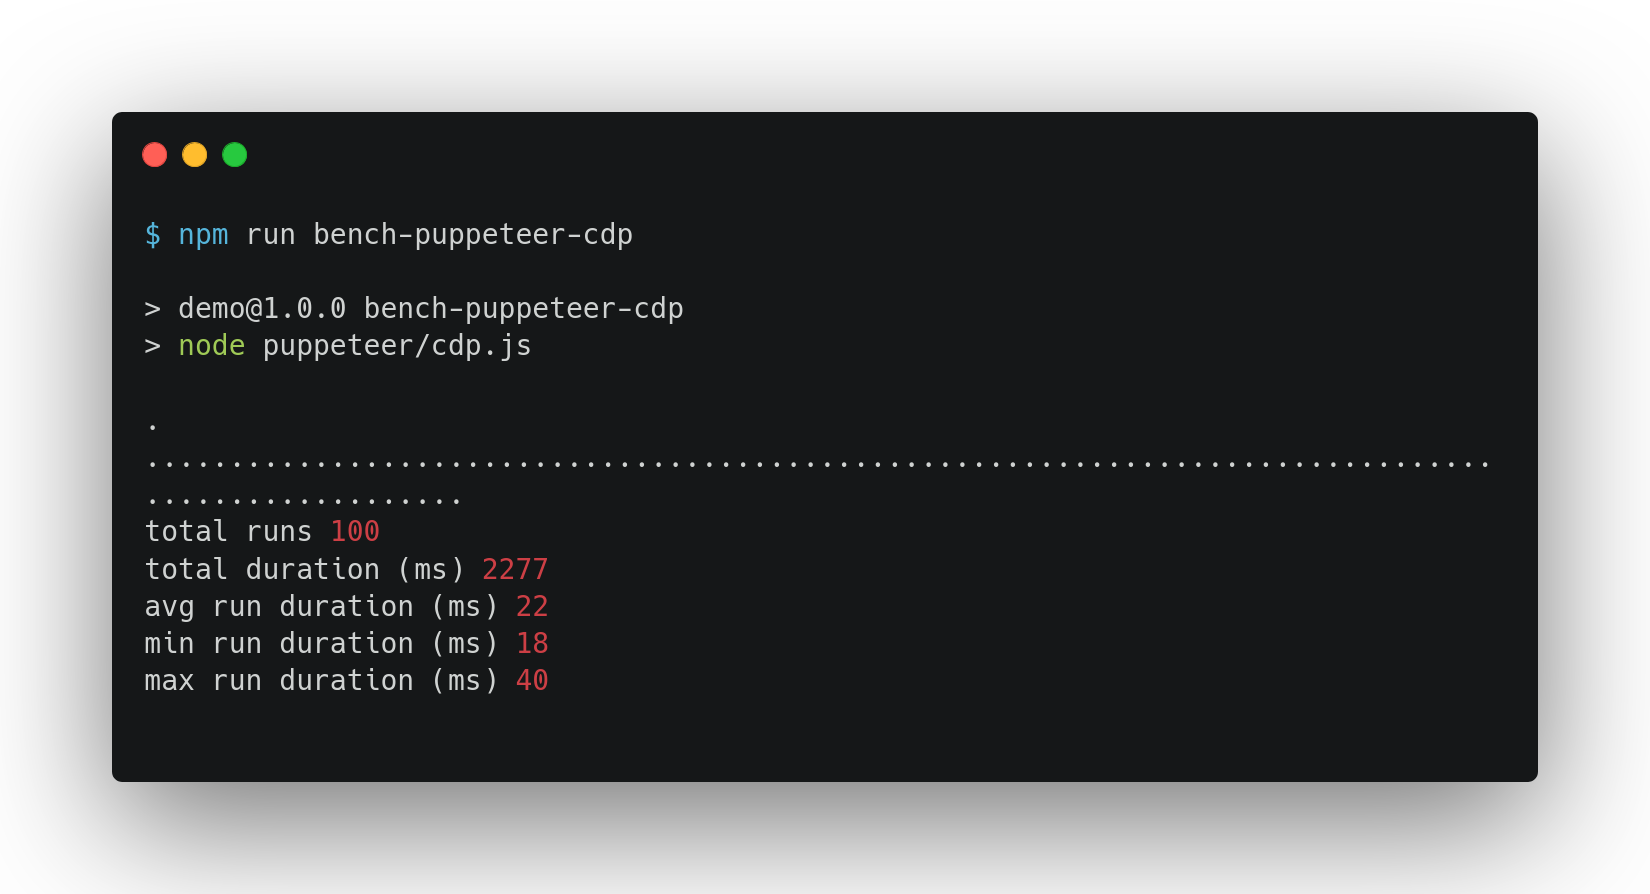
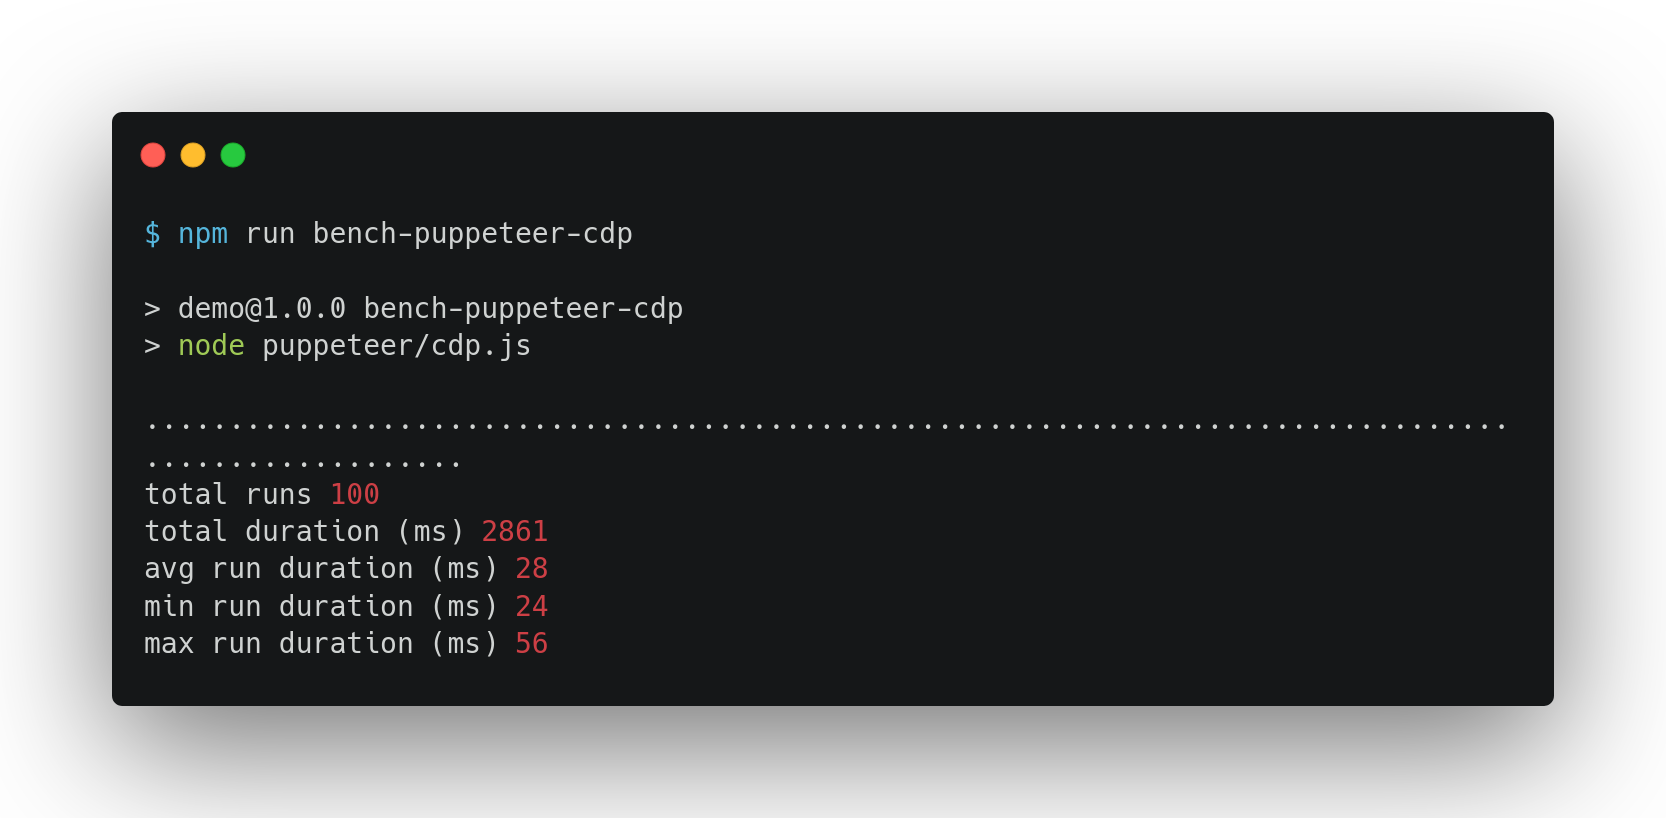
upgrade benchmark results

diff --git a/README.md b/README.md
@@ -69,26 +69,31 @@ We use Google Chrome version 130.0.6723.58.
 
 ```console
 $ google-chrome --version
-Google Chrome 130.0.6723.58
+Google Chrome 136.0.7103.113
 ```
 
-And Lightpanda commit [b846541ff69082f4d283155f0b3651ae0394a240](https://github.com/lightpanda-io/browser/commit/b846541ff69082f4d283155f0b3651ae0394a240).
+And Lightpanda commit [eed3d27](https://github.com/lightpanda-io/browser/commit/eed3d27).
+
+```console
+$ ./lightpanda version
+eed3d27
+```
 
 ### Execution time
 
 ```console
 $ hyperfine --warmup 3 --runs 20 --shell=none "google-chrome --user-data-dir=/tmp/bench_chrome --headless=new --dump-dom http://127.0.0.1:124/campfire-commerce/" "./lightpanda --dump http://127.0.0.1:1234/campfire-commerce/"
 Benchmark 1: google-chrome --user-data-dir=/tmp/bench_chrome --headless=new --dump-dom http://127.0.0.1:124/campfire-commerce/
-  Time (mean ± σ):     598.7 ms ±   8.6 ms    [User: 348.0 ms, System: 165.1 ms]
-  Range (min … max):   586.3 ms … 611.9 ms    20 runs
+  Time (mean ± σ):     589.8 ms ±   7.5 ms    [User: 353.0 ms, System: 161.5 ms]
+  Range (min … max):   575.4 ms … 604.8 ms    20 runs
 
 Benchmark 2: ./lightpanda --dump http://127.0.0.1:1234/campfire-commerce/
-  Time (mean ± σ):      19.6 ms ±   0.1 ms    [User: 6.7 ms, System: 4.1 ms]
-  Range (min … max):    19.4 ms …  19.9 ms    20 runs
+  Time (mean ± σ):      37.1 ms ±   1.2 ms    [User: 31.7 ms, System: 6.8 ms]
+  Range (min … max):    34.9 ms …  40.9 ms    20 runs
 
 Summary
   './lightpanda --dump http://127.0.0.1:1234/campfire-commerce/' ran
-   30.50 ± 0.49 times faster than 'google-chrome --user-data-dir=/tmp/bench_chrome --headless=new --dump-dom http://127.0.0.1:124/campfire-commerce/'
+   15.91 ± 0.57 times faster than 'google-chrome --user-data-dir=/tmp/bench_chrome --headless=new --dump-dom http://127.0.0.1:124/campfire-commerce/'
 ```
 
 ![aws.m5 hyperfine](./img/aws_m5_hyperfine.png)
@@ -98,48 +103,47 @@ Summary
 ```console
 $ /usr/bin/time -v google-chrome --user-data-dir=/tmp/bench_chrome --headless=new --dump-dom http://127.0.0.1:1234/campfire-commerce/
         Command being timed: "google-chrome --user-data-dir=/tmp/bench_chrome --headless=new --dump-dom http://127.0.0.1:1234/campfire-commerce/"
-        User time (seconds): 0.34
-        System time (seconds): 0.19
-        Percent of CPU this job got: 94%
-        Elapsed (wall clock) time (h:mm:ss or m:ss): 0:00.57
+        User time (seconds): 0.36
+        System time (seconds): 0.18
+        Percent of CPU this job got: 91%
+        Elapsed (wall clock) time (h:mm:ss or m:ss): 0:00.60
         Average shared text size (kbytes): 0
         Average unshared data size (kbytes): 0
         Average stack size (kbytes): 0
         Average total size (kbytes): 0
-        Maximum resident set size (kbytes): 174096
+        Maximum resident set size (kbytes): 183212
         Average resident set size (kbytes): 0
-        Major (requiring I/O) page faults: 17
-        Minor (reclaiming a frame) page faults: 20609
-        Voluntary context switches: 2563
-        Involuntary context switches: 1618
+        Major (requiring I/O) page faults: 0
+        Minor (reclaiming a frame) page faults: 21131
+        Voluntary context switches: 3066
+        Involuntary context switches: 1548
         Swaps: 0
-        File system inputs: 1048
-        File system outputs: 4576
+        File system inputs: 0
+        File system outputs: 3488
         Socket messages sent: 0
         Socket messages received: 0
         Signals delivered: 0
         Page size (bytes): 4096
         Exit status: 0
-
 ```
 
 ```console
-$ /usr/bin/time -v ./lightpanda --dump http://127.0.0.1:1234/campfire-commerce/
-        Command being timed: "./lightpanda --dump http://127.0.0.1:1234/campfire-commerce/"
-        User time (seconds): 0.00
-        System time (seconds): 0.00
-        Percent of CPU this job got: 92%
-        Elapsed (wall clock) time (h:mm:ss or m:ss): 0:00.01
+$ /usr/bin/time -v ./lightpanda fetch --dump http://127.0.0.1:1234/campfire-commerce/
+        Command being timed: "./lightpanda fetch --dump http://127.0.0.1:1234/campfire-commerce/"
+        User time (seconds): 0.03
+        System time (seconds): 0.01
+        Percent of CPU this job got: 100%
+        Elapsed (wall clock) time (h:mm:ss or m:ss): 0:00.04
         Average shared text size (kbytes): 0
         Average unshared data size (kbytes): 0
         Average stack size (kbytes): 0
         Average total size (kbytes): 0
-        Maximum resident set size (kbytes): 21276
+        Maximum resident set size (kbytes): 26540
         Average resident set size (kbytes): 0
         Major (requiring I/O) page faults: 0
-        Minor (reclaiming a frame) page faults: 925
-        Voluntary context switches: 6
-        Involuntary context switches: 11
+        Minor (reclaiming a frame) page faults: 1229
+        Voluntary context switches: 32
+        Involuntary context switches: 827
         Swaps: 0
         File system inputs: 0
         File system outputs: 0
@@ -201,33 +205,33 @@ $ BROWSER_ADDRESS=http://127.0.0.1:9222 npm run bench-puppeteer-cdp
 ................................................................................
 ....................
 total runs 100
-total duration (ms) 25218
-avg run duration (ms) 248
-min run duration (ms) 216
-max run duration (ms) 451
+total duration (ms) 25275
+avg run duration (ms) 251
+min run duration (ms) 218
+max run duration (ms) 448
 ```
 
 ![aws.m5 Puppeteer with Google Chrome](./img/aws_m5_puppeteer_chrome.png)
 
 ```console
         Command being timed: "google-chrome --headless=new --remote-debugging-port=9222"
-        User time (seconds): 16.19
-        System time (seconds): 6.59
-        Percent of CPU this job got: 41%
-        Elapsed (wall clock) time (h:mm:ss or m:ss): 0:54.51
+        User time (seconds): 16.38
+        System time (seconds): 6.13
+        Percent of CPU this job got: 68%
+        Elapsed (wall clock) time (h:mm:ss or m:ss): 0:32.78
         Average shared text size (kbytes): 0
         Average unshared data size (kbytes): 0
         Average stack size (kbytes): 0
         Average total size (kbytes): 0
-        Maximum resident set size (kbytes): 207828
+        Maximum resident set size (kbytes): 217020
         Average resident set size (kbytes): 0
-        Major (requiring I/O) page faults: 138
-        Minor (reclaiming a frame) page faults: 265165
-        Voluntary context switches: 143625
-        Involuntary context switches: 82912
+        Major (requiring I/O) page faults: 0
+        Minor (reclaiming a frame) page faults: 298036
+        Voluntary context switches: 171980
+        Involuntary context switches: 87943
         Swaps: 0
-        File system inputs: 35680
-        File system outputs: 169688
+        File system inputs: 0
+        File system outputs: 34680
         Socket messages sent: 0
         Socket messages received: 0
         Signals delivered: 0
@@ -241,7 +245,7 @@ We use Lightpanda commit [b846541ff69082f4d283155f0b3651ae0394a240](https://gith
 
 You have to start Lightpanda browser.
 ```console
-/usr/bin/time -v ./lightpanda
+/usr/bin/time -v ./lightpanda serve --gc_hints
 ```
 
 Then you can run the benchmark.
@@ -255,30 +259,30 @@ $ npm run bench-puppeteer-cdp
 ................................................................................
 ...................
 total runs 100
-total duration (ms) 2277
-avg run duration (ms) 22
-min run duration (ms) 18
-max run duration (ms) 40
+total duration (ms) 2861
+avg run duration (ms) 28
+min run duration (ms) 24
+max run duration (ms) 56
 ```
 
 ![aws.m5 Puppeteer with Lightpanda browser](./img/aws_m5_puppeteer_lightpanda.png)
 
 ```console
-        Command being timed: "./lightpanda"
-        User time (seconds): 1.05
-        System time (seconds): 0.55
-        Percent of CPU this job got: 17%
-        Elapsed (wall clock) time (h:mm:ss or m:ss): 0:09.25
+        Command being timed: "./lightpanda serve --gc_hints"
+        User time (seconds): 2.80
+        System time (seconds): 0.29
+        Percent of CPU this job got: 50%
+        Elapsed (wall clock) time (h:mm:ss or m:ss): 0:06.15
         Average shared text size (kbytes): 0
         Average unshared data size (kbytes): 0
         Average stack size (kbytes): 0
         Average total size (kbytes): 0
-        Maximum resident set size (kbytes): 23456
+        Maximum resident set size (kbytes): 31544
         Average resident set size (kbytes): 0
         Major (requiring I/O) page faults: 0
-        Minor (reclaiming a frame) page faults: 62976
-        Voluntary context switches: 8189
-        Involuntary context switches: 2804
+        Minor (reclaiming a frame) page faults: 42935
+        Voluntary context switches: 4588
+        Involuntary context switches: 4494
         Swaps: 0
         File system inputs: 0
         File system outputs: 0
